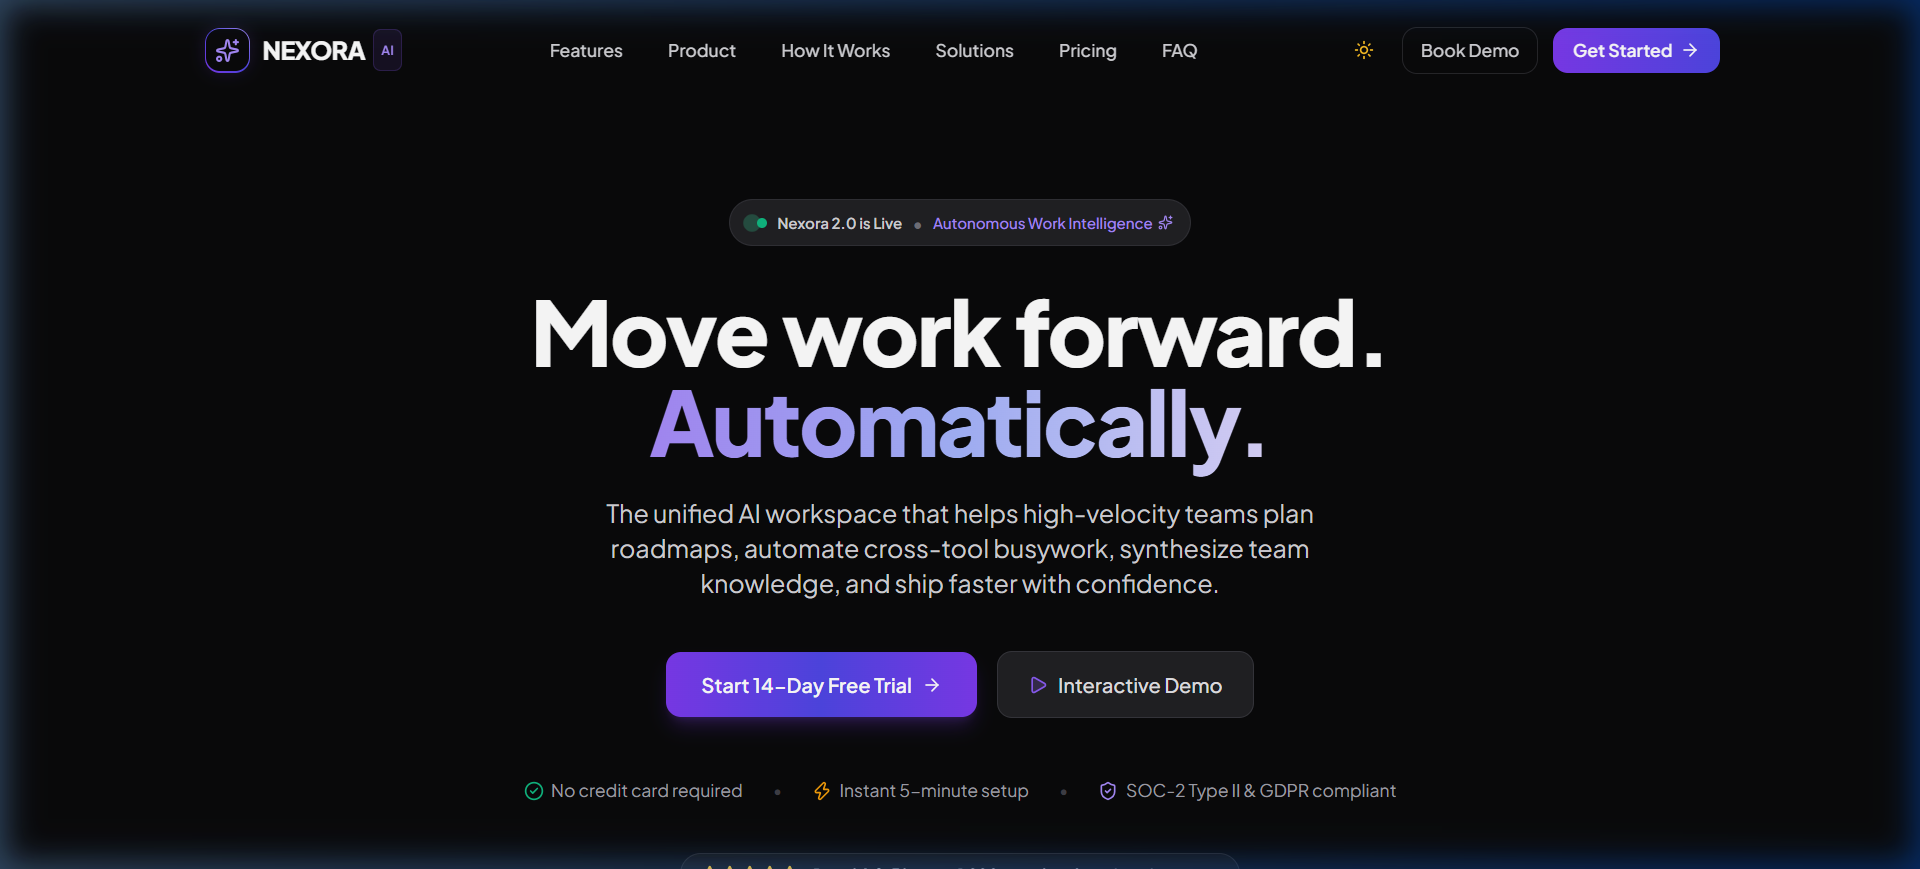
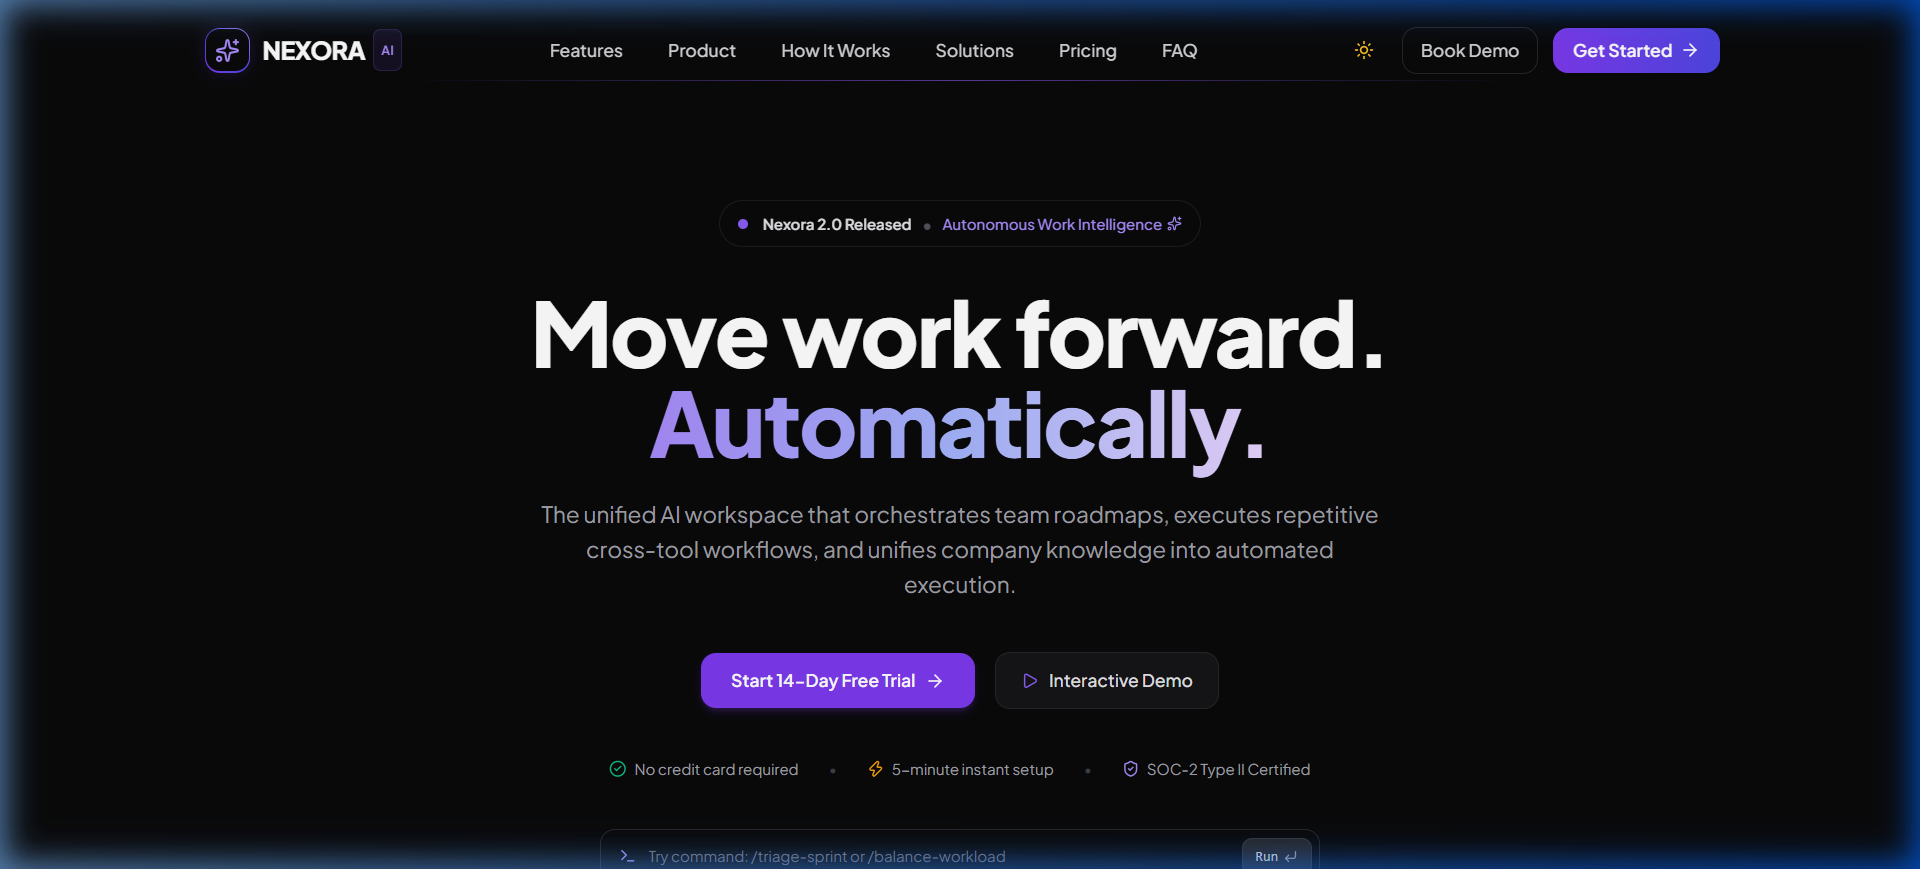
feat: implement interactive hero component with command bar and custom styling

diff --git a/src/components/Hero.tsx b/src/components/Hero.tsx
@@ -1,11 +1,15 @@
-import React from 'react';
-import { ArrowRight, Play, CheckCircle2, Star, ShieldCheck, Zap, Sparkles } from 'lucide-react';
+import React, { useState } from 'react';
+import { ArrowRight, Play, CheckCircle2, ShieldCheck, Zap, Sparkles, Terminal, CornerDownLeft } from 'lucide-react';
 
 interface HeroProps {
   onOpenDemoModal: () => void;
 }
 
 export const Hero: React.FC<HeroProps> = ({ onOpenDemoModal }) => {
+  const [commandText, setCommandText] = useState('');
+  const [commandResponse, setCommandResponse] = useState<string | null>(null);
+  const [isExecuting, setIsExecuting] = useState(false);
+
   const handleScrollToPricing = (e: React.MouseEvent<HTMLAnchorElement>) => {
     e.preventDefault();
     const pricingSection = document.querySelector('#pricing');
@@ -18,49 +22,65 @@ export const Hero: React.FC<HeroProps> = ({ onOpenDemoModal }) => {
     }
   };
 
+  const handleCommandSubmit = (e: React.FormEvent) => {
+    e.preventDefault();
+    if (!commandText.trim()) return;
+    setIsExecuting(true);
+    setCommandResponse(null);
+    setTimeout(() => {
+      setIsExecuting(false);
+      setCommandResponse(`✓ AI Agent triaged 14 issues, balanced 2 sprint backlogs, and flagged 1 PR bottleneck.`);
+    }, 700);
+  };
+
   return (
     <section className="relative pt-32 pb-16 md:pt-40 md:pb-24 overflow-hidden">
-      {/* Background ambient lighting */}
-      <div className="absolute top-1/4 left-1/2 -translate-x-1/2 -translate-y-1/2 w-[600px] h-[350px] md:w-[900px] md:h-[450px] bg-gradient-to-tr from-violet-600/15 via-indigo-600/20 to-purple-500/10 blur-[120px] -z-10 pointer-events-none rounded-full" />
-      
-      {/* Subtle grid pattern */}
-      <div className="absolute inset-0 bg-grid-pattern opacity-40 -z-10 pointer-events-none" />
+      {/* Aurora spotlight horizon */}
+      <div className="absolute top-0 left-0 right-0 h-[500px] aurora-spotlight -z-10 pointer-events-none" />
 
-      <div className="max-w-5xl mx-auto px-4 sm:px-6 lg:px-8 text-center">
+      {/* Masked dot matrix grid */}
+      <div className="absolute inset-0 bg-dots-pattern -z-10 pointer-events-none" />
+
+      {/* Top glowing laser beam line */}
+      <div className="absolute top-16 left-1/2 -translate-x-1/2 w-3/4 max-w-4xl beam-line pointer-events-none" />
+
+      <div className="max-w-5xl mx-auto px-4 sm:px-6 lg:px-8 text-center relative">
         
-        {/* Eyebrow Badge */}
-        <div className="inline-flex items-center space-x-2 px-3.5 py-1.5 rounded-full bg-zinc-900/80 dark:bg-zinc-800/80 border border-zinc-700/60 dark:border-zinc-700/50 shadow-sm mb-8 hover:border-brand-500/40 transition-colors">
-          <span className="flex h-2 w-2 rounded-full bg-emerald-400 animate-ping" />
-          <span className="flex h-2 w-2 rounded-full bg-emerald-500 absolute" />
-          <span className="text-xs font-semibold text-zinc-300 pl-2">
-            Nexora 2.0 is Live
+        {/* Floating Liquid-Glass Eyebrow Badge */}
+        <div className="inline-flex items-center space-x-2 px-3.5 py-1.5 rounded-full liquid-glass shadow-sm mb-8 hover:border-violet-500/40 transition-colors cursor-default">
+          <span className="flex h-2 w-2 relative">
+            <span className="animate-ping absolute inline-flex h-full w-full rounded-full bg-violet-400 opacity-75" />
+            <span className="relative inline-flex rounded-full h-2 w-2 bg-violet-500" />
           </span>
-          <span className="text-zinc-600 dark:text-zinc-500">•</span>
-          <span className="text-xs font-medium text-brand-400 flex items-center">
+          <span className="text-xs font-semibold text-zinc-900 dark:text-zinc-200 pl-1">
+            Nexora 2.0 Released
+          </span>
+          <span className="text-zinc-400 dark:text-zinc-600">•</span>
+          <span className="text-xs font-medium text-violet-600 dark:text-violet-400 flex items-center">
             Autonomous Work Intelligence
             <Sparkles className="w-3 h-3 ml-1" />
           </span>
         </div>
 
-        {/* Confident Headline */}
+        {/* Confident Headline with Rich Text Accent */}
         <h1 className="text-4xl sm:text-6xl lg:text-7xl font-extrabold tracking-tight text-zinc-950 dark:text-white leading-[1.08] mb-6">
           Move work forward.{' '}
-          <span className="text-transparent bg-clip-text bg-gradient-to-r from-violet-500 via-indigo-400 to-brand-300 dark:from-violet-400 dark:via-indigo-300 dark:to-brand-200">
+          <span className="text-transparent bg-clip-text bg-gradient-to-r from-violet-400 via-indigo-300 to-purple-200">
             Automatically.
           </span>
         </h1>
 
-        {/* Subtitle / Value Proposition */}
-        <p className="max-w-2xl mx-auto text-lg sm:text-xl text-zinc-600 dark:text-zinc-300 font-normal leading-relaxed mb-10">
-          The unified AI workspace that helps high-velocity teams plan roadmaps, automate cross-tool busywork, synthesize team knowledge, and ship faster with confidence.
+        {/* Crisp Subtitle */}
+        <p className="max-w-2xl mx-auto text-base sm:text-lg text-zinc-600 dark:text-zinc-400 font-normal leading-relaxed mb-10">
+          The unified AI workspace that orchestrates team roadmaps, executes repetitive cross-tool workflows, and unifies company knowledge into automated execution.
         </p>
 
-        {/* CTA Button Group */}
-        <div className="flex flex-col sm:flex-row items-center justify-center gap-3.5 sm:gap-4 mb-12">
+        {/* Dual CTAs */}
+        <div className="flex flex-col sm:flex-row items-center justify-center gap-3.5 sm:gap-4 mb-10">
           <a
             href="#pricing"
             onClick={handleScrollToPricing}
-            className="w-full sm:w-auto inline-flex items-center justify-center space-x-2 px-7 py-3.5 rounded-xl font-semibold text-white bg-gradient-to-r from-violet-600 via-indigo-600 to-violet-600 hover:from-violet-500 hover:to-indigo-500 shadow-lg shadow-violet-600/25 hover:shadow-violet-600/40 hover:-translate-y-0.5 active:translate-y-0 transition-all duration-200"
+            className="w-full sm:w-auto inline-flex items-center justify-center space-x-2 px-6 py-3 rounded-xl font-semibold text-sm text-white bg-violet-600 hover:bg-violet-500 shadow-md shadow-violet-600/20 hover:shadow-violet-600/35 hover:-translate-y-0.5 active:translate-y-0 transition-all focus:outline-none focus-visible:ring-2 focus-visible:ring-violet-500"
           >
             <span>Start 14-Day Free Trial</span>
             <ArrowRight className="w-4 h-4" />
@@ -69,41 +89,63 @@ export const Hero: React.FC<HeroProps> = ({ onOpenDemoModal }) => {
           <button
             type="button"
             onClick={onOpenDemoModal}
-            className="w-full sm:w-auto inline-flex items-center justify-center space-x-2 px-6 py-3.5 rounded-xl font-medium text-zinc-800 dark:text-zinc-200 bg-zinc-100 dark:bg-zinc-800/80 hover:bg-zinc-200 dark:hover:bg-zinc-750 border border-zinc-200 dark:border-zinc-700/70 hover:border-zinc-300 dark:hover:border-zinc-600 transition-all duration-200 hover:-translate-y-0.5"
+            className="w-full sm:w-auto inline-flex items-center justify-center space-x-2 px-5 py-3 rounded-xl font-medium text-sm text-zinc-800 dark:text-zinc-200 bg-white/60 dark:bg-zinc-900/80 hover:bg-zinc-100 dark:hover:bg-zinc-850 border border-zinc-200 dark:border-zinc-800 hover:border-zinc-300 dark:hover:border-zinc-700 transition-all hover:-translate-y-0.5"
           >
-            <Play className="w-4 h-4 text-violet-500 fill-violet-500/20" />
+            <Play className="w-3.5 h-3.5 text-violet-500" />
             <span>Interactive Demo</span>
           </button>
         </div>
 
-        {/* Trust Badges & Micro-proof */}
-        <div className="flex flex-wrap items-center justify-center gap-y-3 gap-x-6 text-xs sm:text-sm text-zinc-500 dark:text-zinc-400">
+        {/* Trust Badges */}
+        <div className="flex flex-wrap items-center justify-center gap-y-2 gap-x-6 text-xs text-zinc-500 dark:text-zinc-400 mb-10">
           <div className="flex items-center space-x-1.5">
-            <CheckCircle2 className="w-4 h-4 text-emerald-500" />
+            <CheckCircle2 className="w-3.5 h-3.5 text-emerald-500" />
             <span>No credit card required</span>
           </div>
-          <div className="hidden sm:inline-block text-zinc-700">•</div>
+          <span className="hidden sm:inline text-zinc-300 dark:text-zinc-700">•</span>
           <div className="flex items-center space-x-1.5">
-            <Zap className="w-4 h-4 text-amber-500" />
-            <span>Instant 5-minute setup</span>
+            <Zap className="w-3.5 h-3.5 text-amber-500" />
+            <span>5-minute instant setup</span>
           </div>
-          <div className="hidden sm:inline-block text-zinc-700">•</div>
+          <span className="hidden sm:inline text-zinc-300 dark:text-zinc-700">•</span>
           <div className="flex items-center space-x-1.5">
-            <ShieldCheck className="w-4 h-4 text-brand-400" />
-            <span>SOC-2 Type II & GDPR compliant</span>
+            <ShieldCheck className="w-3.5 h-3.5 text-violet-400" />
+            <span>SOC-2 Type II Certified</span>
           </div>
         </div>
 
-        {/* Social Proof Star Rating Card */}
-        <div className="mt-10 inline-flex items-center space-x-3 px-4 py-2 rounded-full bg-zinc-100/80 dark:bg-zinc-900/60 border border-zinc-200 dark:border-zinc-800 backdrop-blur-sm">
-          <div className="flex items-center space-x-0.5 text-amber-400">
-            {[...Array(5)].map((_, i) => (
-              <Star key={i} className="w-3.5 h-3.5 fill-amber-400 text-amber-400" />
-            ))}
-          </div>
-          <span className="text-xs font-medium text-zinc-700 dark:text-zinc-300">
-            Rated <span className="font-bold text-zinc-950 dark:text-white">4.9/5</span> by over 1,200+ product & engineering teams
-          </span>
+        {/* Interactive Human-Crafted Command Bar Component (Shows AI capability naturally) */}
+        <div className="max-w-xl mx-auto text-left">
+          <form
+            onSubmit={handleCommandSubmit}
+            className="p-1.5 pl-3.5 rounded-xl bg-zinc-900/90 dark:bg-zinc-950/90 border border-zinc-700/60 dark:border-zinc-800 shadow-xl flex items-center justify-between text-xs transition-colors focus-within:border-violet-500/80"
+          >
+            <div className="flex items-center space-x-2.5 flex-1 mr-2">
+              <Terminal className="w-3.5 h-3.5 text-violet-400 shrink-0" />
+              <input
+                type="text"
+                value={commandText}
+                onChange={(e) => setCommandText(e.target.value)}
+                placeholder="Try command: /triage-sprint or /balance-workload"
+                className="w-full bg-transparent text-zinc-200 placeholder-zinc-500 focus:outline-none text-xs"
+              />
+            </div>
+            <button
+              type="submit"
+              disabled={isExecuting}
+              className="px-2.5 py-1.5 rounded-lg bg-zinc-800 hover:bg-zinc-750 text-zinc-300 font-mono text-[11px] flex items-center space-x-1 border border-zinc-700/60 transition-colors"
+            >
+              <span>{isExecuting ? 'Running...' : 'Run'}</span>
+              <CornerDownLeft className="w-3 h-3 text-zinc-400" />
+            </button>
+          </form>
+
+          {commandResponse && (
+            <div className="mt-2.5 p-2.5 rounded-lg bg-violet-500/10 border border-violet-500/20 text-xs text-violet-300 flex items-center justify-between animate-fade-in">
+              <span>{commandResponse}</span>
+              <span className="font-mono text-[10px] text-violet-400">42ms</span>
+            </div>
+          )}
         </div>
 
       </div>

diff --git a/src/index.css b/src/index.css
@@ -12,9 +12,9 @@
   }
 }
 
-/* Custom modern scrollbar */
+/* Custom minimal scrollbar */
 ::-webkit-scrollbar {
-  width: 8px;
+  width: 7px;
 }
 
 ::-webkit-scrollbar-track {
@@ -39,26 +39,62 @@
   background: #a1a1aa;
 }
 
-/* Background grid patterns for subtle SaaS elegance */
-.bg-grid-pattern {
-  background-size: 32px 32px;
-  background-image: 
-    linear-gradient(to right, rgba(255, 255, 255, 0.04) 1px, transparent 1px),
-    linear-gradient(to bottom, rgba(255, 255, 255, 0.04) 1px, transparent 1px);
+/* High-tech dot-matrix grid with soft radial mask */
+.bg-dots-pattern {
+  background-image: radial-gradient(rgba(255, 255, 255, 0.14) 1px, transparent 1px);
+  background-size: 28px 28px;
+  mask-image: radial-gradient(ellipse 75% 65% at 50% 25%, #000 20%, transparent 85%);
+  -webkit-mask-image: radial-gradient(ellipse 75% 65% at 50% 25%, #000 20%, transparent 85%);
 }
 
-.light .bg-grid-pattern {
-  background-size: 32px 32px;
-  background-image: 
-    linear-gradient(to right, rgba(0, 0, 0, 0.04) 1px, transparent 1px),
-    linear-gradient(to bottom, rgba(0, 0, 0, 0.04) 1px, transparent 1px);
+.light .bg-dots-pattern {
+  background-image: radial-gradient(rgba(0, 0, 0, 0.12) 1px, transparent 1px);
+  background-size: 28px 28px;
+  mask-image: radial-gradient(ellipse 75% 65% at 50% 25%, #000 20%, transparent 85%);
+  -webkit-mask-image: radial-gradient(ellipse 75% 65% at 50% 25%, #000 20%, transparent 85%);
 }
 
-/* Glow effects */
-.violet-radial-glow {
-  background: radial-gradient(circle at 50% 0%, rgba(139, 92, 246, 0.15) 0%, rgba(15, 15, 20, 0) 70%);
+/* Linear/Vercel style horizon spotlight */
+.aurora-spotlight {
+  background: radial-gradient(ellipse 80% 55% at 50% -15%, rgba(139, 92, 246, 0.25), rgba(99, 102, 241, 0.1) 40%, rgba(9, 9, 11, 0) 80%);
 }
 
-.light .violet-radial-glow {
-  background: radial-gradient(circle at 50% 0%, rgba(139, 92, 246, 0.1) 0%, rgba(255, 255, 255, 0) 70%);
+.light .aurora-spotlight {
+  background: radial-gradient(ellipse 80% 55% at 50% -15%, rgba(139, 92, 246, 0.15), rgba(99, 102, 241, 0.06) 40%, rgba(255, 255, 255, 0) 80%);
+}
+
+/* Thin liquid glass surface */
+.liquid-glass {
+  background: rgba(9, 9, 11, 0.75);
+  backdrop-filter: blur(14px);
+  -webkit-backdrop-filter: blur(14px);
+  border: 1px solid rgba(255, 255, 255, 0.08);
+}
+
+.light .liquid-glass {
+  background: rgba(255, 255, 255, 0.82);
+  backdrop-filter: blur(14px);
+  -webkit-backdrop-filter: blur(14px);
+  border: 1px solid rgba(0, 0, 0, 0.08);
+}
+
+/* Modal liquid glass */
+.modal-liquid-glass {
+  background: rgba(14, 14, 18, 0.92);
+  backdrop-filter: blur(24px);
+  -webkit-backdrop-filter: blur(24px);
+  border: 1px solid rgba(255, 255, 255, 0.12);
+}
+
+.light .modal-liquid-glass {
+  background: rgba(255, 255, 255, 0.95);
+  backdrop-filter: blur(24px);
+  -webkit-backdrop-filter: blur(24px);
+  border: 1px solid rgba(0, 0, 0, 0.1);
+}
+
+/* Glowing top beam line */
+.beam-line {
+  height: 1px;
+  background: linear-gradient(90deg, transparent 0%, rgba(139, 92, 246, 0.6) 50%, transparent 100%);
 }
